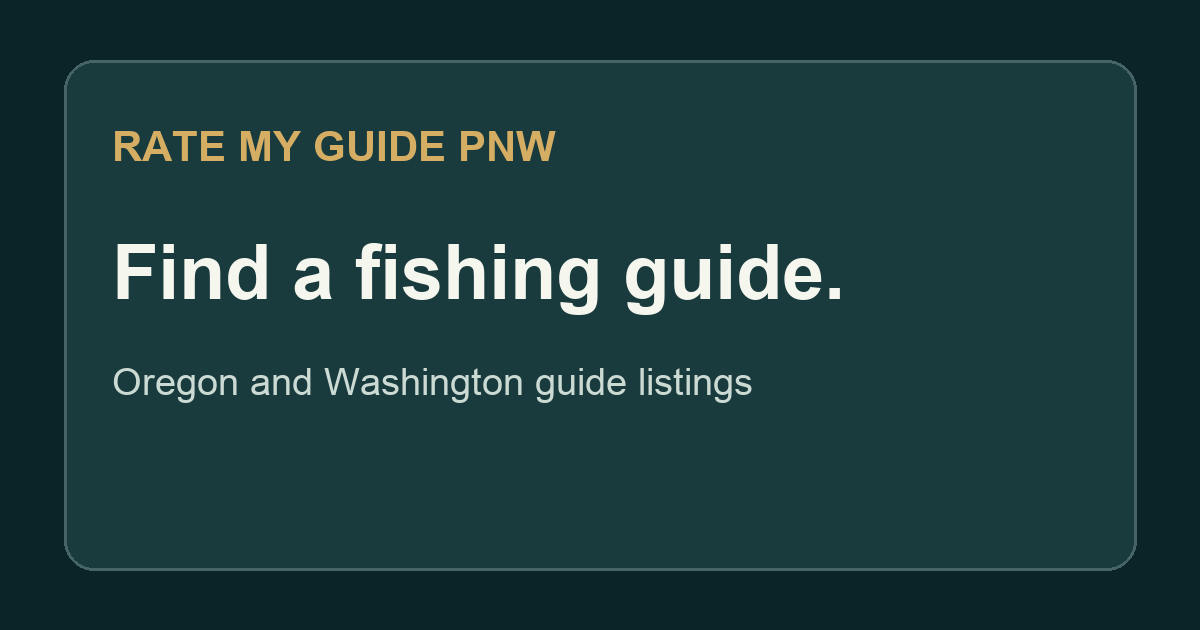
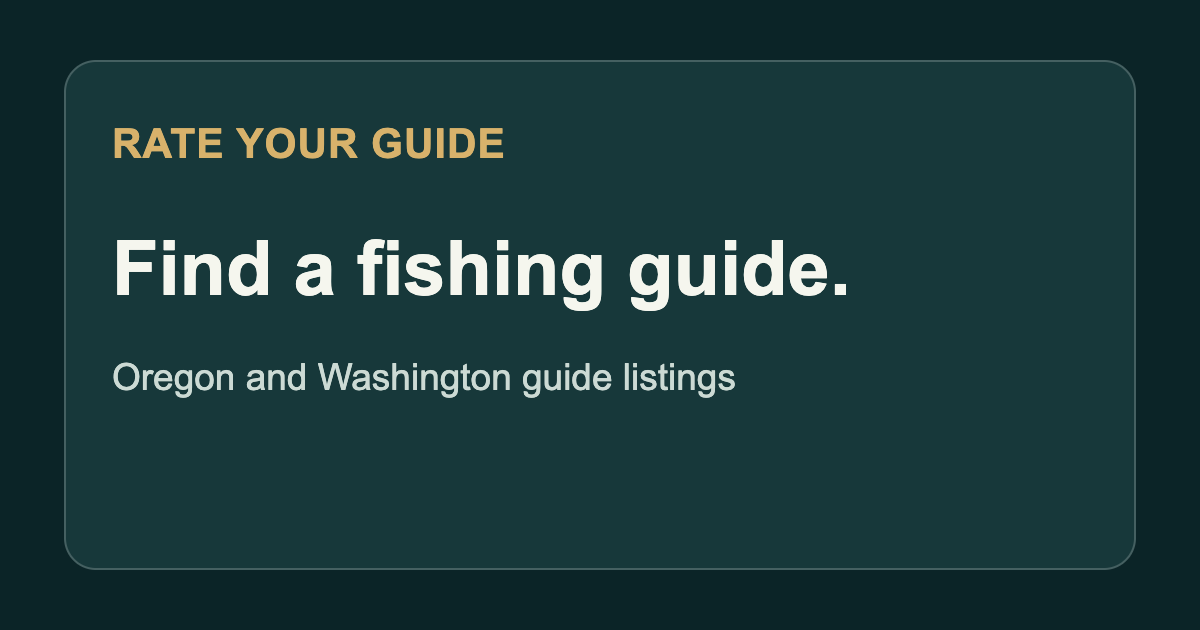
Rebrand directory and gate canonical domain cutover

diff --git a/components/UnifiedSearch.tsx b/components/UnifiedSearch.tsx
@@ -5,6 +5,7 @@ import {DEFAULT_DIRECTORY_STATE,DIRECTORY_PAGE_SIZE,directoryUrl,parseDirectoryS
 import type {DirectoryEntry} from '@/lib/directory';
 import {directorySpeciesLabels,filterDirectoryEntries,guideSearchScore,locatedGuidePorts} from '@/lib/directory-query';
 import {charterPorts,filterCharterOfferings,type CharterOffering} from '@/lib/charter-offerings';
+import {PUBLIC_ORIGIN} from '@/lib/canonical-share';
 import DirectoryEmptyState from './DirectoryEmptyState';
 
 const noCharters: CharterOffering[] = [];
@@ -18,6 +19,7 @@ export default function UnifiedSearch({entries,charters=noCharters,reviewMode=fa
  const {query:q,state,area,waterway,species,method,page}=selection;
  const routeBase=reviewMode?'/write-review':'/guides';
  const resultsUrl=directoryUrl(selection,home?'/':routeBase);
+ const shareUrl=PUBLIC_ORIGIN+directoryUrl(selection,routeBase);
  const size=DIRECTORY_PAGE_SIZE;
  useEffect(()=>{
   function restore(){
@@ -39,8 +41,7 @@ export default function UnifiedSearch({entries,charters=noCharters,reviewMode=fa
   }
  }
  async function copyLink(){
-  const url=window.location.origin+routeBase+directoryUrl(selection).slice('/guides'.length);
-  try{if(!navigator.clipboard?.writeText)throw new Error('Clipboard unavailable');await navigator.clipboard.writeText(url);setCopyStatus('Search link copied.');setFallback(false)}
+  try{if(!navigator.clipboard?.writeText)throw new Error('Clipboard unavailable');await navigator.clipboard.writeText(shareUrl);setCopyStatus('Search link copied.');setFallback(false)}
   catch{setFallback(true);setCopyStatus('Copy the search link from the field below.')}
  }
  const filtered=useMemo(()=>filterDirectoryEntries(entries,{
@@ -108,7 +109,7 @@ export default function UnifiedSearch({entries,charters=noCharters,reviewMode=fa
    <Link href={directoryUrl(selection)}>Open search in directory</Link>
    <button type="button" onClick={()=>change(DEFAULT_DIRECTORY_STATE)}>Clear all filters</button>
    <span role="status">{copyStatus}</span>
-   {fallback&&<label>Search link<input readOnly value={typeof window==='undefined'?'':window.location.origin+routeBase+directoryUrl(selection).slice('/guides'.length)} onFocus={e=>e.currentTarget.select()}/></label>}
+   {fallback&&<label>Search link<input readOnly value={shareUrl} onFocus={e=>e.currentTarget.select()}/></label>}
   </div>
   {(q||state!=='All'||area!=='All areas'||waterway!=='All advertised waters'||species!=='All species'||method!=='All methods')&&<div className="active-filters" aria-label="Active filters"><strong>Active filters:</strong>
    {q&&<button type="button" onClick={()=>{change({query:'',page:1});searchRef.current?.focus()}}>Remove search: {q}</button>}

diff --git a/lib/canonical-share.ts b/lib/canonical-share.ts
@@ -1,5 +1,14 @@
-/** Public share links are independent of the current request or preview host. */
-export const PUBLIC_ORIGIN = 'https://ratemyguidepnw.vercel.app';
+export const BRAND_NAME = 'Rate Your Guide';
+const VERCEL_FALLBACK_ORIGIN = 'https://ratemyguidepnw.vercel.app';
+const CUSTOM_PUBLIC_ORIGIN = 'https://rateyourguide.com';
+
+// Client and server bundles must agree. Preview, development and builds
+// without the production marker always keep the existing public origin.
+export const PUBLIC_ORIGIN =
+  process.env.NEXT_PUBLIC_VERCEL_ENV === 'production' &&
+  process.env.NEXT_PUBLIC_RMG_CANONICAL_CUTOVER_ENABLED === 'true'
+    ? CUSTOM_PUBLIC_ORIGIN
+    : VERCEL_FALLBACK_ORIGIN;
 const PROFILE_PATH = /^\/(?:guides\/og-\d{7}(?:-[a-z0-9]+)*|washington\/wa-\d{3,})$/;
 const REVIEW_ID = /^[0-9a-f]{8}-[0-9a-f]{4}-[0-9a-f]{4}-[0-9a-f]{4}-[0-9a-f]{12}$/i;
 
@@ -61,13 +70,13 @@ export function profileShareMetadata(profilePath: string, name: string, business
   const url = canonicalProfileUrl(profilePath);
   const person = name.trim();
   if (!person) throw new Error('A profile name is required');
-  const title = `${person} | RateMyGuidePNW`;
-  const description = `${person}${business?.trim() ? ` · ${business.trim()}` : ''}. Browse this fishing guide listing on RateMyGuidePNW.`;
+  const title = `${person} | ${BRAND_NAME}`;
+  const description = `${person}${business?.trim() ? ` · ${business.trim()}` : ''}. Browse this fishing guide listing on ${BRAND_NAME}.`;
   return {
     title,
     description,
     alternates:{canonical:url},
-    openGraph:{type:'website' as const,url,title,description,siteName:'RateMyGuidePNW',images:[{url:`${PUBLIC_ORIGIN}/share-card.png`,width:1200,height:630,alt:'RateMyGuidePNW fishing guide directory'}]},
+    openGraph:{type:'website' as const,url,title,description,siteName:BRAND_NAME,images:[{url:`${PUBLIC_ORIGIN}/share-card.png`,width:1200,height:630,alt:`${BRAND_NAME} fishing guide directory`}]},
     twitter:{card:'summary_large_image' as const,title,description,images:[`${PUBLIC_ORIGIN}/share-card.png`]},
   };
 }

diff --git a/app/layout.tsx b/app/layout.tsx
@@ -1,9 +1,13 @@
 import type { Metadata } from 'next';
 import Link from 'next/link';
+import { BRAND_NAME, PUBLIC_ORIGIN } from '@/lib/canonical-share';
 import './globals.css';
 
 export const metadata: Metadata = {
-  title: 'RateMyGuidePNW | Fishing guide reviews',
+  metadataBase: new URL(PUBLIC_ORIGIN),
+  title: `${BRAND_NAME} | Fishing guide reviews`,
+  applicationName: BRAND_NAME,
+  openGraph: { siteName: BRAND_NAME, images: [{ url: '/share-card.png', width: 1200, height: 630, alt: `${BRAND_NAME} fishing guide directory` }] },
   description: process.env.NEXT_PUBLIC_RMG_LAUNCH_ENABLED==='true'?'Browse Oregon and Washington fishing-guide listings and angler reviews.':'Browse Oregon and Washington fishing-guide listings with transparent source information. Reviews and profile claims are currently unavailable.',
   robots: { index: false, follow: false },
 };
@@ -13,7 +17,7 @@ export default function Layout({ children }: { children: React.ReactNode }) {
     <html lang="en">
       <body>
         <header>
-          <Link className="brand" href="/">RateMyGuide<span>PNW</span></Link>
+          <Link className="brand" href="/">Rate Your <span>Guide</span></Link>
           <nav aria-label="Main navigation">
             <Link href="/write-review">Write a Review</Link>
             <Link href="/guides">Find a Guide</Link>
@@ -21,7 +25,7 @@ export default function Layout({ children }: { children: React.ReactNode }) {
           </nav>
         </header>
         {children}
-        <footer>© {new Date().getFullYear()} RateMyGuidePNW · Independent by design{process.env.NEXT_PUBLIC_RMG_LAUNCH_ENABLED==='true'?'':' · Pre-launch'}</footer>
+        <footer>© {new Date().getFullYear()} {BRAND_NAME} · Independent by design{process.env.NEXT_PUBLIC_RMG_LAUNCH_ENABLED==='true'?'':' · Pre-launch'}</footer>
       </body>
     </html>
   );

diff --git a/components/launch/ReviewShare.tsx b/components/launch/ReviewShare.tsx
@@ -1,11 +1,11 @@
 'use client';
 
 import {useState} from 'react';
-import {canonicalPublishedReviewUrl} from '@/lib/canonical-share';
+import {BRAND_NAME, canonicalPublishedReviewUrl} from '@/lib/canonical-share';
 
 export function ReviewShare({profilePath,reviewId,guideName}:{profilePath:string;reviewId:string;guideName:string}) {
   const url=canonicalPublishedReviewUrl(profilePath,reviewId),[status,setStatus]=useState(''),[fallback,setFallback]=useState(false);
   async function copy(){setStatus('');setFallback(false);try{if(!navigator.clipboard?.writeText)throw Error('Clipboard unavailable');await navigator.clipboard.writeText(url);setStatus('Review link copied.')}catch{setFallback(true);setStatus('Couldn’t copy the link. Select and copy it below.')}}
-  async function share(){setStatus('');setFallback(false);if(!navigator.share){await copy();return}try{await navigator.share({title:'An angler review on RateMyGuidePNW',text:`Read an angler’s review of ${guideName}.`,url});setStatus('Sharing dialog closed.')}catch(error){if(error instanceof Error&&error.name==='AbortError')return;await copy()}}
+  async function share(){setStatus('');setFallback(false);if(!navigator.share){await copy();return}try{await navigator.share({title:`An angler review on ${BRAND_NAME}`,text:`Read an angler’s review of ${guideName}.`,url});setStatus('Sharing dialog closed.')}catch(error){if(error instanceof Error&&error.name==='AbortError')return;await copy()}}
   return <div className="launch-controls"><div className="launch-actions"><button type="button" onClick={()=>void share()}>Share review</button><button type="button" onClick={()=>void copy()}>Copy review link</button></div>{status&&<p role="status">{status}</p>}{fallback&&<label>Review link<input readOnly value={url} onFocus={event=>event.currentTarget.select()}/></label>}</div>;
 }

diff --git a/components/launch/ProfileSharing.tsx b/components/launch/ProfileSharing.tsx
@@ -1,7 +1,7 @@
 'use client';
 
 import {useState, type ReactNode} from 'react';
-import {canonicalProfileUrl, canonicalReviewRequestUrl} from '@/lib/canonical-share';
+import {BRAND_NAME, canonicalProfileUrl, canonicalReviewRequestUrl} from '@/lib/canonical-share';
 
 /** Enable review-request actions only when the real review destination is available. */
 export function ProfileSharing({profilePath, guideName, reviewAvailable, primaryAction}: {profilePath:string; guideName:string; reviewAvailable:boolean; primaryAction?:ReactNode}) {
@@ -22,7 +22,7 @@ export function ProfileSharing({profilePath, guideName, reviewAvailable, primary
     setStatus('');setFallback('');
     if (!navigator.share) {await copy(profileUrl);return;}
     try {
-      await navigator.share({title:`${guideName} on RateMyGuidePNW`,text:`View ${guideName}'s guide profile on RateMyGuidePNW.`,url:profileUrl});
+      await navigator.share({title:`${guideName} on ${BRAND_NAME}`,text:`View ${guideName}'s guide profile on ${BRAND_NAME}.`,url:profileUrl});
       setStatus('Sharing dialog closed.');
     } catch (error) {
       if (error instanceof Error && error.name==='AbortError') return;

diff --git a/components/AuthPanel.tsx b/components/AuthPanel.tsx
@@ -1,7 +1,7 @@
 'use client';
 import {useEffect,useRef,useState} from 'react';
 import {createClient} from '@supabase/supabase-js';
-import {guideAuthRedirectPath,guideAuthRestoredPath} from '@/lib/canonical-share';
+import {BRAND_NAME,guideAuthRedirectPath,guideAuthRestoredPath} from '@/lib/canonical-share';
 import {rememberReviewSearch,takeReviewSearch} from '@/lib/review-search-return';
 const url=process.env.NEXT_PUBLIC_SUPABASE_URL,key=process.env.NEXT_PUBLIC_SUPABASE_PUBLISHABLE_KEY;
 export const client=url&&key?createClient(url,key):null;
@@ -57,7 +57,7 @@ export default function AuthPanel({onSignedIn,profilePath,moderator=false}:{onSi
     email:email.trim(),
     options:{emailRedirectTo:redirectTo(),...(moderator?{shouldCreateUser:false}:{})},
    });
-   setMessage(error?(moderator?unavailable:error.message):'Check your email for the sign-in link.');
+   setMessage(error?(moderator?unavailable:error.message):`Check your email for your ${BRAND_NAME} sign-in link.`);
   }catch{
    setMessage(unavailable);
   }finally{

diff --git a/app/intel/methodology/page.tsx b/app/intel/methodology/page.tsx
@@ -7,7 +7,7 @@ import reviewedHistory from '@/data/chinook-2026-reviewed.json';
 import './methodology.css';
 
 export const metadata: Metadata = {
-  title: 'Page not found | RateMyGuidePNW',
+  title: 'Page not found | Rate Your Guide',
   description: 'This page is not available.',
 };
 
@@ -43,7 +43,7 @@ export default function ChinookMethodology() {
       <section className="methodology-heading">
         <p className="methodology-eyebrow"><BookOpen size={16} aria-hidden="true" /> DATA TRANSPARENCY</p>
         <h1>Show the evidence.<br/><em>Explain the limits.</em></h1>
-        <p>When you see a Chinook number on RateMyGuidePNW, you should be able to tell who measured it, what it means, and what we still do not know.</p>
+        <p>When you see a Chinook number on Rate Your Guide, you should be able to tell who measured it, what it means, and what we still do not know.</p>
       </section>
 
       <section className="methodology-number" aria-labelledby="method-example">

diff --git a/app/reviews/page.tsx b/app/reviews/page.tsx
@@ -1,6 +1,6 @@
 import Link from 'next/link';
 
-export const metadata = { title: 'Angler reviews | RateMyGuidePNW', description: 'Information about fishing guide reviews.' };
+export const metadata = { title: 'Angler reviews | Rate Your Guide', description: 'Information about fishing guide reviews.' };
 
 export default function ReviewsPage() {
   if(process.env.NEXT_PUBLIC_RMG_LAUNCH_ENABLED==='true')return <main><h1>Angler reviews</h1><section className="card"><p>Find a guide to read published reviews or share a firsthand trip. Review and claim availability varies by listing.</p><Link className="button" href="/guides">Browse guide listings</Link></section></main>;

diff --git a/app/intel/buoy-10-chinook/page.tsx b/app/intel/buoy-10-chinook/page.tsx
@@ -13,7 +13,7 @@ import { directoryEntries } from '@/lib/directory';
 import { chinookRelease } from '@/lib/chinook-intel';
 
 export const metadata: Metadata = {
-  title: 'Page not found | RateMyGuidePNW',
+  title: 'Page not found | Rate Your Guide',
   description: 'This page is not available.',
 };
 
@@ -29,7 +29,7 @@ export default function Buoy10ChinookIntel() {
   return (
     <main className="intel-page">
       <div className="intel-breadcrumb">
-        <Link href="/">RateMyGuidePNW</Link><span aria-hidden="true">/</span>
+        <Link href="/">Rate Your Guide</Link><span aria-hidden="true">/</span>
         <span>Chinook Intel</span>
       </div>
 

diff --git a/components/GuideTrustPanel.tsx b/components/GuideTrustPanel.tsx
@@ -81,7 +81,7 @@ export default function GuideTrustPanel({
           </div>
           <span className="trust-state trust-state-unknown">Trip proof not certified</span>
           <p>
-            RateMyGuidePNW requires an account and moderation for review publication.
+            Rate Your Guide requires an account and moderation for review publication.
             Those safeguards alone do not independently prove that a fishing trip occurred.
           </p>
           <p className="trust-note">

diff --git a/app/about/page.tsx b/app/about/page.tsx
@@ -1,6 +1,6 @@
 export default function About() {
   return <main>
     <h1>About</h1>
-    <p className="lead">RateMyGuidePNW helps anglers find fishing guides, read reviews, and share their experiences. Our goal is to make choosing a fishing guide easier and more transparent.</p>
+    <p className="lead">Rate Your Guide helps anglers find fishing guides, read reviews, and share their experiences. Our goal is to make choosing a fishing guide easier and more transparent.</p>
   </main>;
 }

diff --git a/app/guides/verification/page.tsx b/app/guides/verification/page.tsx
@@ -3,7 +3,7 @@ import Link from 'next/link';
 import { ArrowLeft, ClipboardList, KeyRound, ShieldAlert, UserRoundCheck } from 'lucide-react';
 
 export const metadata: Metadata = {
-  title: 'What Guide Verification Means | RateMyGuidePNW',
+  title: 'What Guide Verification Means | Rate Your Guide',
   description: 'Learn what a source listing establishes, what licenses and claimed pages do not prove, and how guide trip reviews are moderated.',
 };
 
